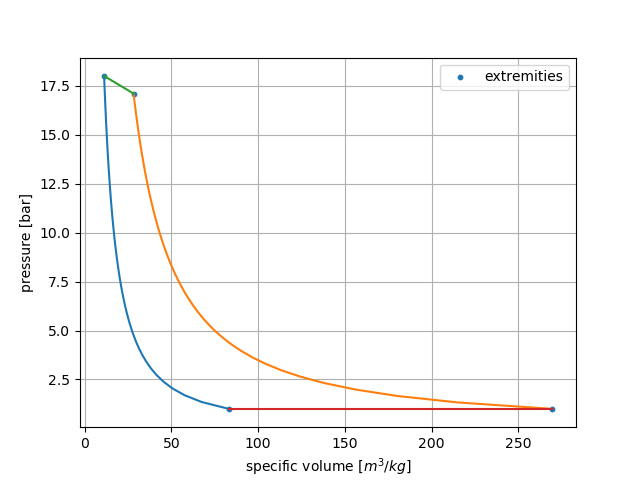
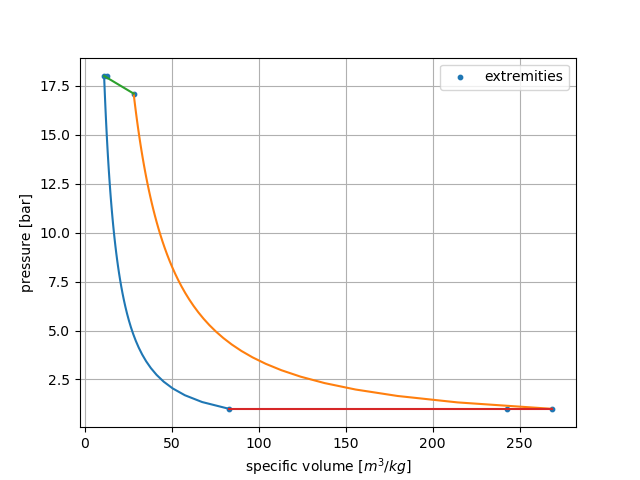
exchanger okay

diff --git a/GTexchanger.py b/GTexchanger.py
@@ -202,7 +202,7 @@ def GT_simple(GT_input):
     #s3 = air_entropy(T3,conc_mass2,Mm_af)-air_entropy(T0,conc_mass2,Mm_af)-Rf*np.log(kcc*r) #J/K/kg_f
     s3 = janaf_integrate_air(cp_air_T,conc_mass2,Mm_af,T0,T3,0.001)-Rf*np.log(kcc*r) #J/K/kg
     e3 = h3-T0*s3/1000 #kJ/kg_in
-    delta_exer_comb = massflow_coefficient*e3-e2 #kJ/kg_air
+    delta_exer_comb = massflow_coefficient*e3-e2r #kJ/kg_air
 
     """
     3)  detente
@@ -239,7 +239,7 @@ def GT_simple(GT_input):
     #travail moteur
     Wm = -(deltah_c+(1+1/(lambda_comb*ma1))*deltah_t) #kJ/kg_in
     #apport calorifique
-    Q_comb = massflow_coefficient*h3-h2 #kJ/kg_in
+    Q_comb = massflow_coefficient*h3-h2r #kJ/kg_in
     #formula chequ of the book
     # 3.27#Wm2 = cp_mean_air(cp_air,conc_mass1,Mm_a,T1,T2,0.001)*T1*(massflow_coefficient*(cp_mean_air(cp_air,conc_mass2,Mm_af,T4,T3,0.001)/cp_mean_air(cp_air,conc_mass1,Mm_a,T1,T2,0.001))*T3/T1*(1-(1/(kcc*r))**exposant_t)-(r**exposant_c-1))
     #3.26 #Q_comb2 =  cp_mean_air(cp_air,conc_mass1,Mm_a,T1,T2,0.001)*T1*(massflow_coefficient*cp_mean_air(cp_air,conc_mass2,Mm_af,T2,T3,0.001)/cp_mean_air(cp_air,conc_mass1,Mm_a,T1,T2,0.001)*T3/T1-r**exposant_c)
@@ -267,15 +267,17 @@ def GT_simple(GT_input):
     T5 = exchanger_outputs.T_f_out+273.15
     h5 = janaf_integrate_air(cp_air,conc_mass2,Mm_af,T0,T5,0.001)/1000
     s5 = janaf_integrate_air(cp_air_T,conc_mass2,Mm_af,T0,T5,0.001) #J/K/kg
-    print((h5-h4)*mf_out,exchanger_outputs.Q,'here probleme')
+    e5 = h5-T0*s5/1000
+    Q_pre = exchanger_outputs.Q #[kJ]
     """
     5) calcul des flux de puissances
     """
     P_in = h1*mf_in #[kW]
     P_c = deltah_c*mf_in #[kW]
+    P_pre = Q_pre*mf_in #[kW]
     P_comb = Q_comb*mf_in #[kW]
     P_t = -deltah_t*mf_in*massflow_coefficient
-    P_out = h4*massflow_coefficient*mf_in #[kW]
+    P_out = h5*massflow_coefficient*mf_in #[kW]
     P_fmec = P_t-P_c-Pe
     Pm = P_t-P_c
     print('power comparison', P_comb+P_in, P_out+P_fmec+Pe)
@@ -289,24 +291,27 @@ def GT_simple(GT_input):
     L_c = mf_in*T0*deltas_c1/1000 #[kW]
     # combustion losses
     ec = comb_outputs.e_c
-    L_comb = mf_in*e2-mf_out*e3+mf_c*ec #[kW]
+    L_comb = mf_in*e2r-mf_out*e3+mf_c*ec #[kW]
     #turbine losses
     L_t = mf_out*T0*deltas_t/1000 #[kW]
     #exhaust losses
-    L_exhaust = mf_out*e4 #-mf_in*e1
+    L_exhaust = mf_out*e5 #-mf_in*e1
+    #exchange losses :
+    L_exchanger = e2*mf_in+e4*mf_out-e5*mf_out-e2r*mf_in
+    print('L_exhanger',L_exchanger)
 
-    print('exergie chequ up',ec*mf_c,Pe+P_fmec+L_t+L_c+L_exhaust+L_comb)
+    print('exergie chequ up',ec*mf_c,Pe+P_fmec+L_t+L_c+L_exhaust+L_comb+L_exchanger)
     #faire un pychart de ça : en entrée ec*mf_c et en sortie Pe, P_fmec, L_t, L_c , L_exhaust,L_comb
 
     """
     8) calcul des rendements exergetique
     """
-    eta_cyclex = Pm/(mf_out*e3-mf_in*e2)
+    eta_cyclex = Pm/(mf_out*e3-mf_in*e2r)
     #eta_totex = Pe/(mf_c*ec) #pas la meme chose que dans le livre
-    eta_totex = Pe/(mf_out*h3-mf_out*h2)
+    eta_totex = Pe/(mf_out*h3-mf_out*h2r)
     eta_rotex = Pm/(mf_out*(e3-e4)-mf_in*(e2-e1))
     #eta_combex2 = (mf_out*e3-mf_in*e2)/(mf_out*h3-mf_out*h2)
-    eta_combex = (mf_out*e3-mf_in*e2)/(mf_c*ec)
+    eta_combex = (mf_out*e3-mf_in*e2r)/(mf_c*ec)
     #print('eta_combex2',eta_combex,'eta_combex1',comb_outputs.eta_combex)
     #eta_combex3 = comb_outputs.eta_combex
     # print('eta_totex',eta_totex,eta_combex*eta_cyclex*eta_rotex)
@@ -332,9 +337,91 @@ def GT_simple(GT_input):
     outputs.combustion.LHV = comb_inputs.LHV
     outputs.combustion.e_c = comb_outputs.e_c
     outputs.combustion.Cp_g = cp_air(400,conc_mass2,Mm_af)/1000
+
+    """
+    10) pie charts and cycle graphs
+    """
+    if (GT_input.Display == 1):
+        # pie chart of the energie flux in the cycle
+        fig,ax =  plt.subplots(figsize=(6, 3), subplot_kw=dict(aspect="equal"))
+        data = [Pe,P_fmec,P_out]
+        labels = ['Puissance effective {v} [MW]'.format(v=round(Pe/1000)),'Pertes mecaniques {v} [MW]'.format(v=round(P_fmec/1000)),'Pertes à la sortie {v} [MW]'.format(v=round(P_out/1000))]
+
+        ax.pie(data,labels = labels,autopct='%1.2f%%',startangle = 90)
+        ax.set_title("Flux energetique primaire "+ str(round(P_comb/10**3)) + "[MW]")
+        plt.savefig('figures/energie_pie.png') # a enlever  a la soumission
+
+        # pie chart of the exergie flux in the cycle
+        fig2,ax =  plt.subplots(figsize=(6, 3), subplot_kw=dict(aspect="equal"))
+        data = [Pe,P_fmec,L_t,L_c,L_exhaust,L_exchanger,L_comb]
+        labels = ['Puissance effective {v} [MW]'.format(v=round(Pe/1000)),'Pertes mecaniques {v} [MW]'.format(v=round(P_fmec/1000)),'Pertes à la turbine {v} [MW]'.format(v=round(L_t/1000)),
+                  'Pertes au compresseur {v} [MW]'.format(v=round(L_c/1000)), 'Pertes à la sortie {v} [MW]'.format(v=round(L_exhaust/1000)),'Pertes à l\'echangeur {v} [MW]'.format(v=round(L_exchanger/1000)), 'Pertes à la combustion {v} [MW]'.format(v=round(L_comb/1000))]
+
+
+        ax.pie(data,labels = labels,autopct="%1.2f%%",startangle = 90)
+        ax.set_title("Flux exergetique primaire "+ str(round(ec*mf_c/10**3)) + "[MW]")
+        plt.savefig('figures/exergie_pie.png')
+
+        # T S graph of the cycle
+        Ta = np.linspace(T1,T2,50)
+        #Tb = np.linspace(T2,T3,50)
+        Tc = np.linspace(T4,T3,50)
+        Td = np.linspace(T1,T4,50)
+        Sa= np.zeros(len(Ta))
+        #Sb = np.zeros(len(Tb))
+        Sc = np.zeros(len(Tc))
+        #Sd = np.zeros(len(Td))
+        for i in range(len(Ta)):
+            Sa[i] = s1+(1-eta_pic)*janaf_integrate_air(cp_air_T,conc_mass1,Mm_a,T1,Ta[i],dt)
+            Sc[i] = s4-(1-eta_pit)/eta_pit*janaf_integrate_air(cp_air_T,conc_mass1,Mm_a,T4,Tc[i],dt)
+            #Sb[i] = s2+janaf_integrate_air(cp_air_T,conc_mass1,Mm_a,T2,Tb[i],dt)
+            #Sd[i]= s1 + janaf_integrate_air(cp_air_T,conc_mass1,Mm_a,T1,Td[i],dt)
+
+        Sb=np.linspace(s2r,Sc[-1],50)
+        Sb_pre = np.linspace(Sa[-1],s2r,40)
+        a,b,c= np.polyfit([s2r,s3],[T2r,T3],2)#  ==> c est faux
+        a_pre,b_pre= np.polyfit([s2,s2r],[T2,T2r],1)#  ==> c est faux
+        Sd=np.linspace(Sa[0],s5,50)
+        a2,b2,c2= np.polyfit([s1,s5],[T1,T5],2) #==> c est faux
+        Sd_pre=np.linspace(s5,Sc[0],40)
+        a2_pre,b2_pre= np.polyfit([s5,s4],[T5,T4],1) #==> c est faux
+
+        fig3,ax1 = plt.subplots()
+        ax1.plot(Sa,Ta-273.15,Sc,Tc-273.15,Sb,a*Sb**2+b*Sb+c-273.15,Sd,a2*Sd**2+b2*Sd+c2-273.15,Sb_pre,a_pre*Sb_pre+b_pre-273.15,Sd_pre,a2_pre*Sd_pre+b2_pre-273.15)
+        ax1.scatter([s1,s2,s2r,s3,s4,s5],[T1-273.15,T2-273.15,T2r-273.15,T3-273.15,T4-273.15,T5-273.15],s=10,label='extremities')
+        ax1.set_xlabel('Entropy [J/kg/K]')
+        ax1.set_ylabel('Tempearature [°C]')
+        ax1.grid(True)
+        ax1.legend()
+        ax1.set_title('T S graph of the gaz turbine cycle')
+        plt.savefig('figures/TSgraph.png')
+
+        # p v graph of the cycle
+        pa = np.linspace(p1,p2,50)
+        pb = np.linspace(p4,p3,50)
+        va = R/pa*(pa/p1)**(exposant_c)*T1
+        vb = R/pb*(pb/p4)**(exposant_t)*T4
+        m,b = np.polyfit([va[-1],vb[-1]], [pa[-1],pb[-1]], 1)
+        vc = np.linspace(va[-1],vb[-1],10)
+        pc = m*vc+b
+        vd = np.linspace(va[0],vb[0],10)
+
+        fig4,ax2=plt.subplots()
+        ax2.plot(va,pa,vb,pb,vc,pc,vd,p4*np.ones(len(vd)))
+        ax2.scatter([R*T1/p1,R*T2/p2,R*T2r/p2,R*T3/p3,R*T4/p4,R*T5/p4],[p1,p2,p2,p3,p4,p4],s=10,label='extremities')
+        ax2.set_xlabel('specific volume $[m^3/kg]$')
+        ax2.set_ylabel('pressure [bar]')
+        ax2.grid(True)
+        ax2.legend()
+        plt.savefig('figures/PVgraph.png')
+        plt.show()
+        fig = [fig,fig2,fig3,fig4]
+        outputs.fig = fig
+
     return outputs
 
-GT_simple_outputs = GT_simple(GT_arg.GT_input(Pe = 230e3,k_mec =0.015, T_ext=15,T_0 = 15,r=18.,k_cc=0.95,T3 = 1400,Display =0));
+GT_simple_outputs = GT_simple(GT_arg.GT_input(Pe = 230e3,k_mec =0.015, T_ext=15,T_0 = 15,r=18.,k_cc=0.95,T3 = 1400,Display =1));
 print(GT_simple_outputs.dat)
 print(GT_simple_outputs.massflow)
+print(GT_simple_outputs.eta)
 #plt.show(GT_simple_outputs.fig)

diff --git a/exchanger.py b/exchanger.py
@@ -166,7 +166,6 @@ def heatexchanger(exchanger_input,T_air_out):
         T_f_out_final = ((cp_f*Mflow_f_in - Q)/(A_var*Mflow_f_in))+T_f_in
         error = abs(T_f_out_final-T_f_out)
         T_f_out = T_f_out_final
-        print("error",error)
         if iter==50 :
             print("Le heat exchanger ne converge peut-être pas")
             T_f_out = T_f_out_secours
@@ -225,4 +224,4 @@ def heatexchanger(exchanger_input,T_air_out):
     outputs.eta_transex = eta_transex
     outputs.Surf = S
     return outputs
-sol = heatexchanger(GT_comb_arg.exchanger_input(U =3),480)
+#sol = heatexchanger(GT_comb_arg.exchanger_input(U =3),480)

diff --git a/GT.py b/GT.py
@@ -394,4 +394,5 @@ attention, la temperature de reference dans janaf n est pas 288.15 mais 298.15
 GT_simple_outputs = GT_simple(GT_arg.GT_input(Pe = 230e3,k_mec =0.015, T_ext=15,T_0 = 15,r=18.,k_cc=0.95,T3 = 1400,Display =0));
 print(GT_simple_outputs.dat)
 print(GT_simple_outputs.massflow)
+print(GT_simple_outputs.eta)
 #plt.show(GT_simple_outputs.fig)
